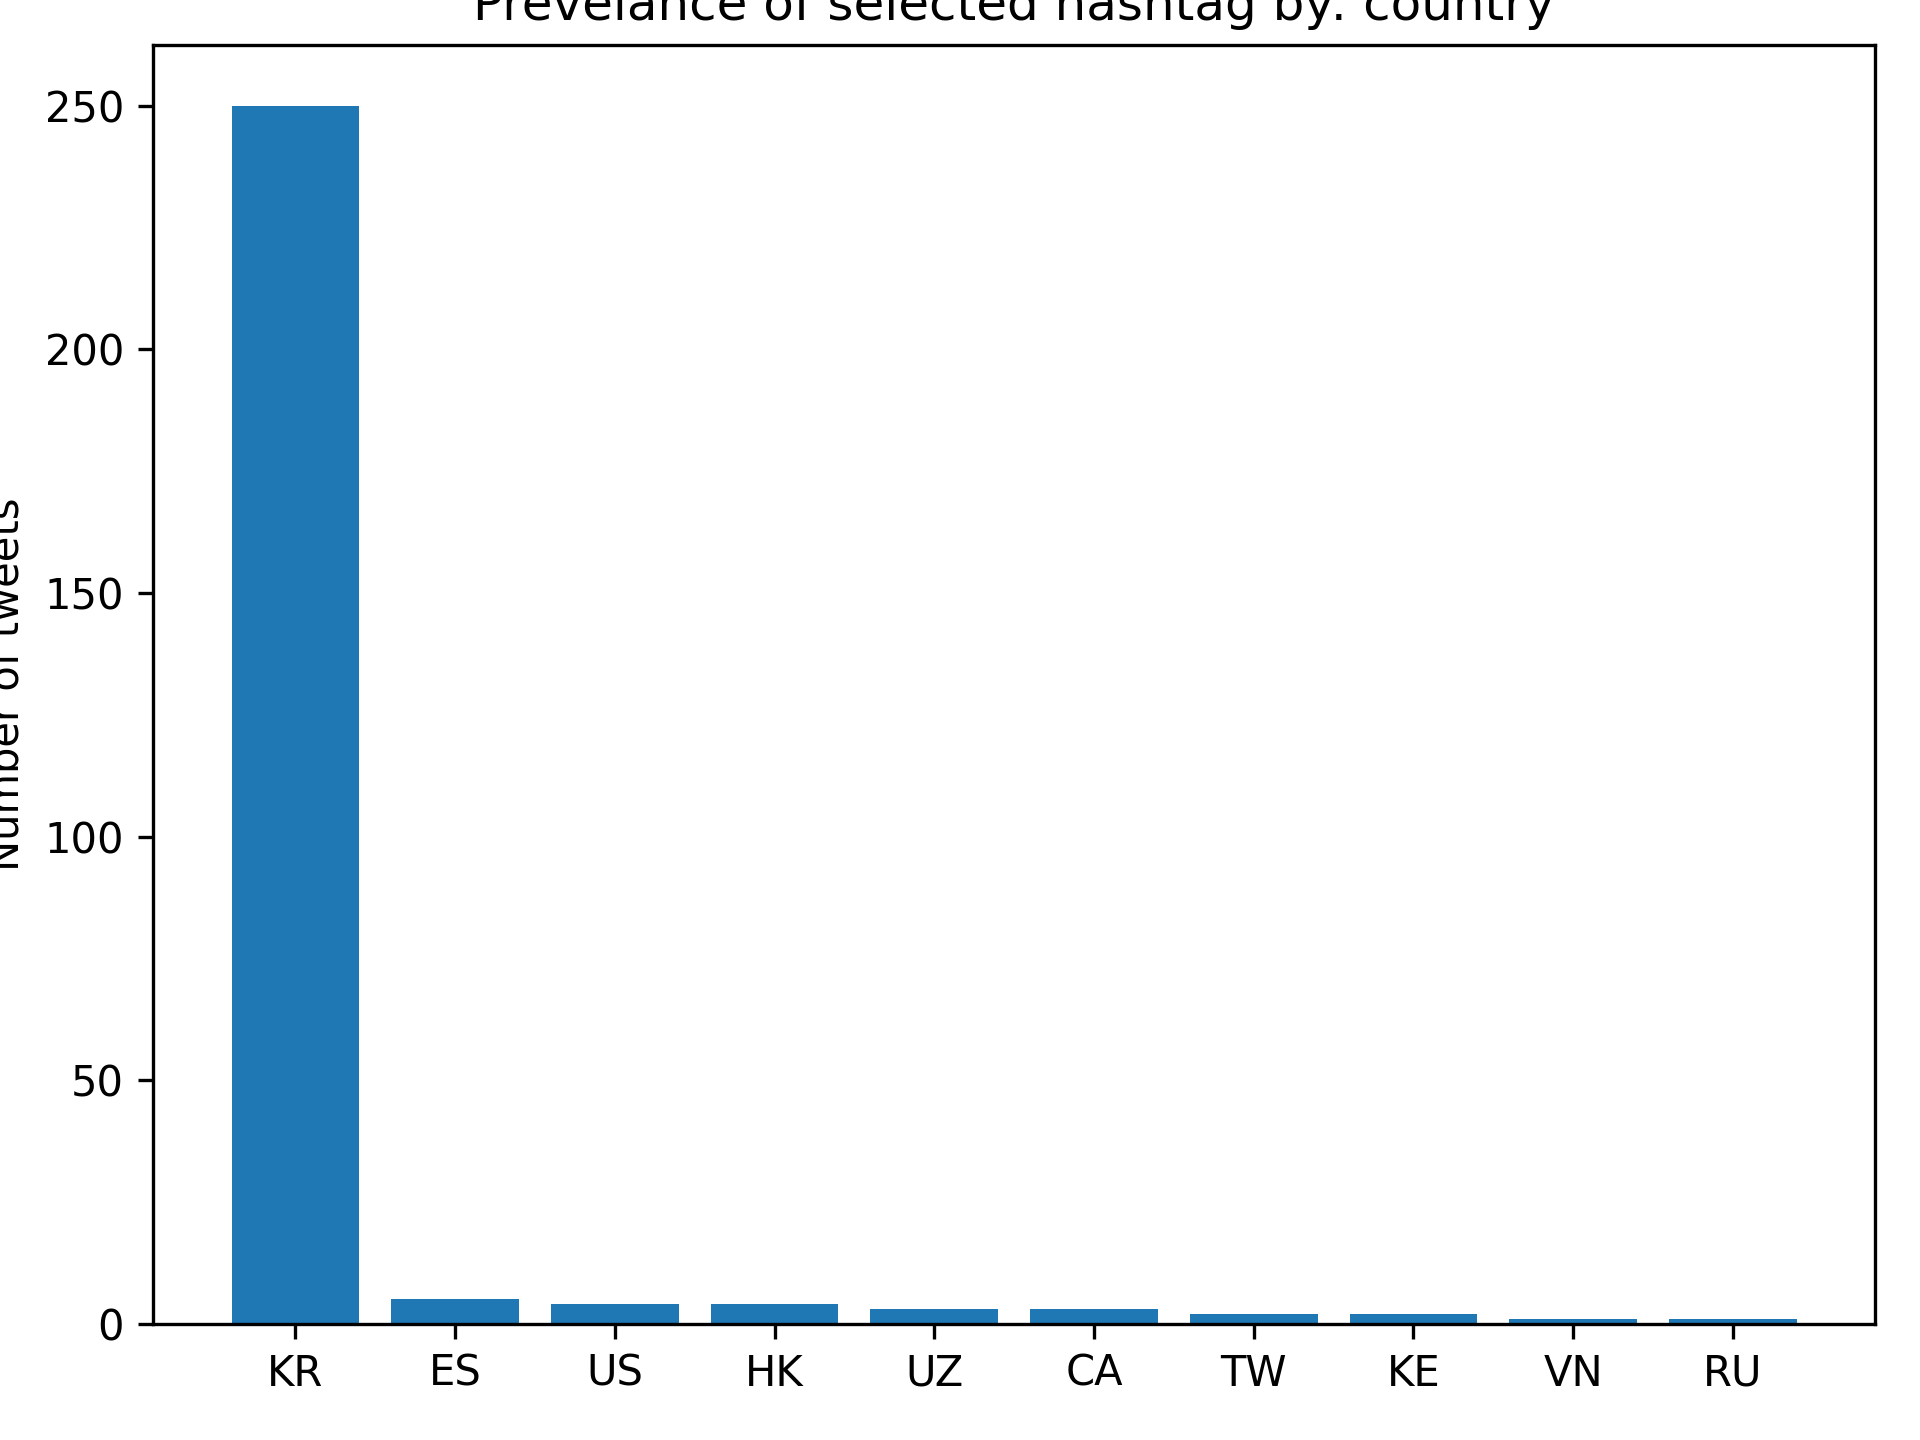
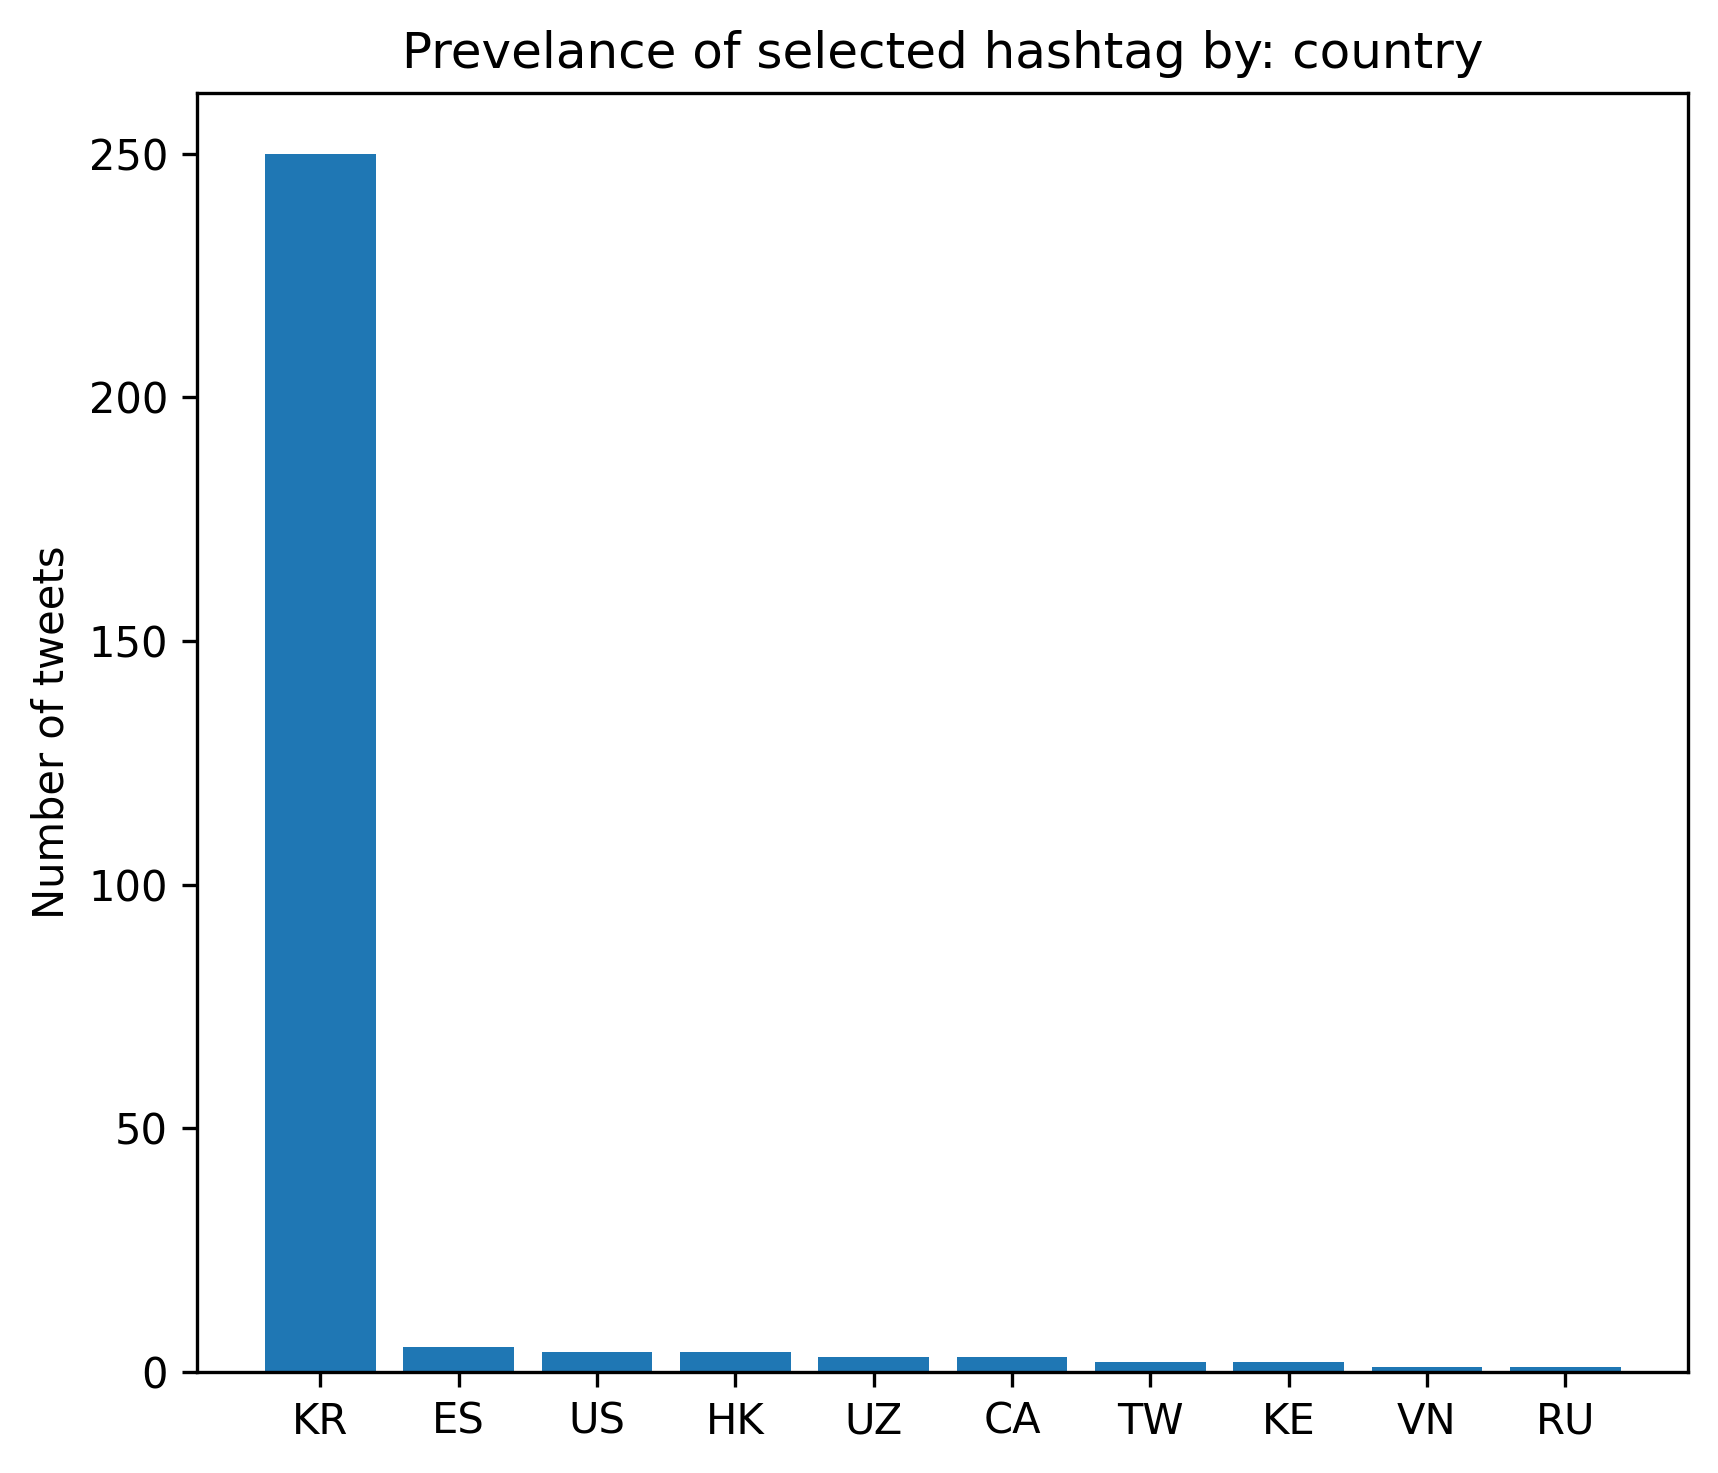
update v5

Changed region(s): [[0.0, 0.0312, 0.9872, 0.9688], [0.2159, 0.0, 0.8638, 0.0625]]

diff --git a/src/visualize.py b/src/visualize.py
@@ -48,6 +48,7 @@ fileext = fileext[1:]
 plt.title("Prevelance of selected hashtag by: " + str(fileext))
 
 plt.ylabel("Number of tweets")
+plt.subplots_adjust(left=0.2)
 
-plt.savefig("plot"+str(fileext)+str(args.key), dpi = 300)
+plt.savefig("plot"+str(fileext)+str(args.key), bbox_inches="tight", dpi = 300)
 
